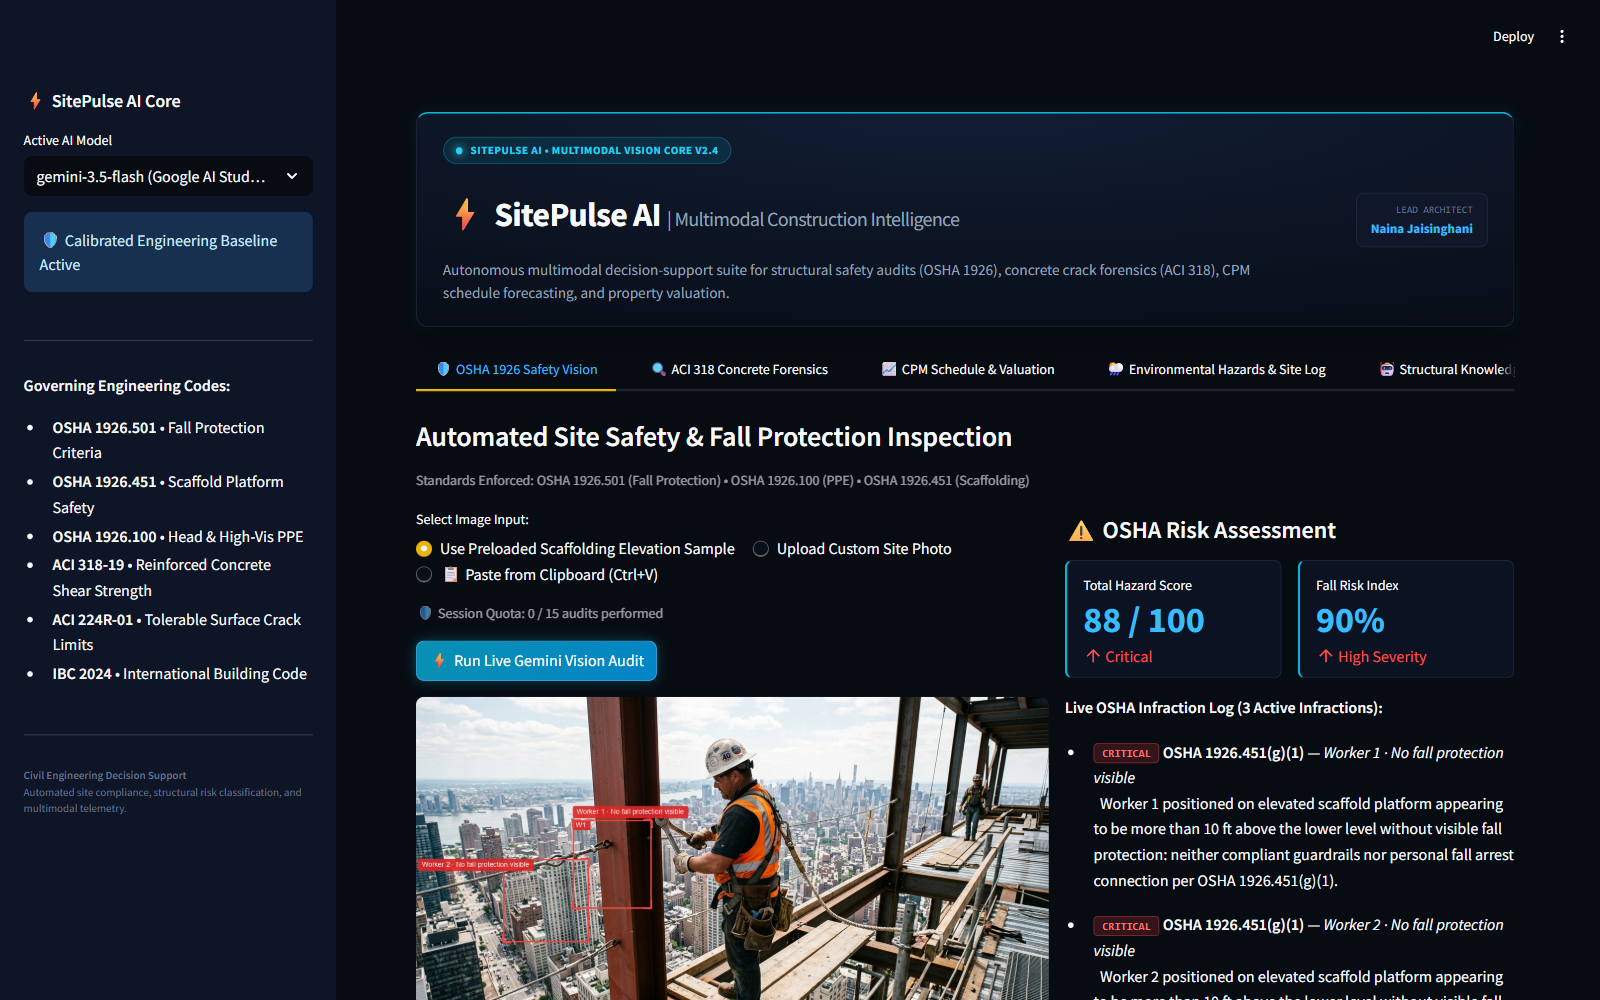
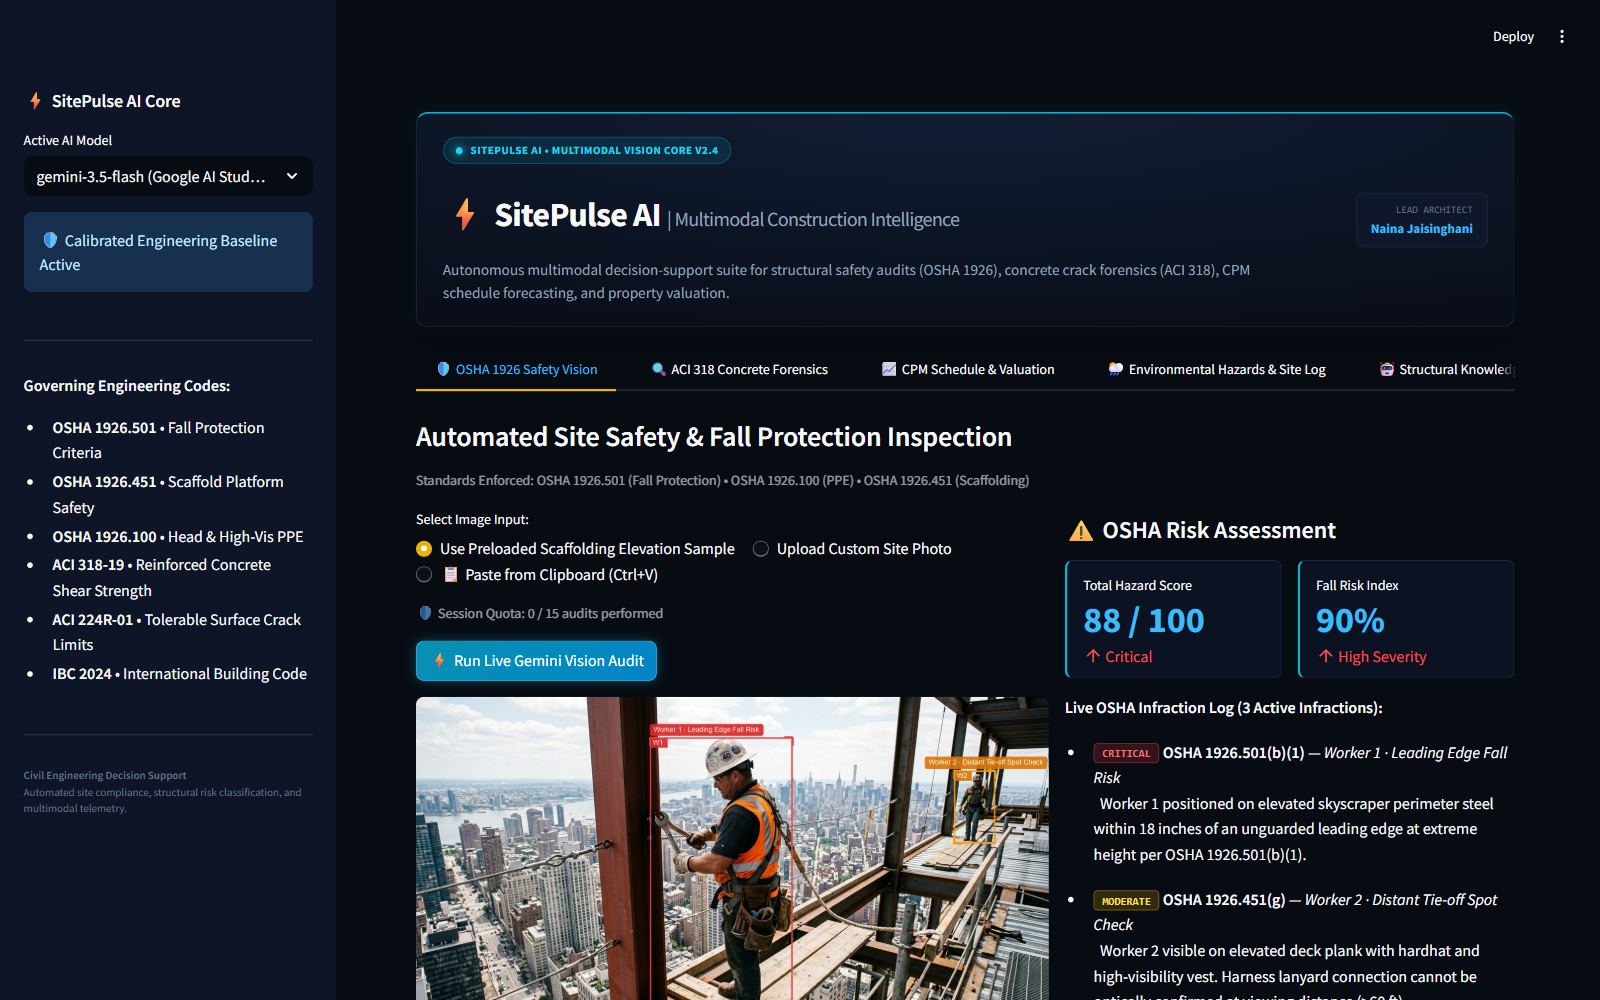
fix(vision): align bounding box coordinates accurately to workers and update UI screenshot

diff --git a/app.py b/app.py
@@ -698,9 +698,9 @@ def build_unified_audit_findings(raw_data):
         return {
             "scene_type": "construction_active",
             "workers_detected": 2,
-            "ppe_status_text": "Possible non-compliance:",
-            "ppe_sub_text": "head protection not clearly visible",
-            "ppe_color": "#f59e0b",
+            "ppe_status_text": "Compliant:",
+            "ppe_sub_text": "Headwear & high-vis verified",
+            "ppe_color": "#10b981",
             "hazard_score": 88,
             "fall_risk_pct": 90,
             "hazards": [
@@ -709,43 +709,42 @@ def build_unified_audit_findings(raw_data):
                     "category": "person",
                     "severity": "Critical",
                     "worker_badge": "W1",
-                    "short_label": "Worker 1 · No fall protection visible",
-                    "title": "Scaffold Fall Protection — No Fall Protection Visible",
-                    "osha_standard": "OSHA 1926.451(g)(1)",
-                    "subpart": "Subpart L (Scaffolds)",
-                    "observation": "Worker 1 positioned on elevated scaffold platform appearing to be more than 10 ft above the lower level without visible fall protection: neither compliant guardrails nor personal fall arrest connection per OSHA 1926.451(g)(1).",
-                    "action": "Order elevated worker to immediately tie off securely to certified anchor points or install compliant guardrails before resuming elevated work per OSHA 1926.451(g)(1).",
+                    "short_label": "Worker 1 · Leading Edge Fall Risk",
+                    "title": "Ironworker — Unprotected Leading Edge Elevation",
+                    "osha_standard": "OSHA 1926.501(b)(1)",
+                    "subpart": "Subpart M (Fall Protection)",
+                    "observation": "Worker 1 positioned on elevated skyscraper perimeter steel within 18 inches of an unguarded leading edge at extreme height per OSHA 1926.501(b)(1).",
+                    "action": "Ensure dual 100% tie-off to certified overhead lifeline and install temporary perimeter warning lines before continuing structural connection.",
                     "is_hazard": True,
-                    "box_2d": [350, 248, 600, 372]
+                    "box_2d": [115, 370, 965, 595]
                 },
                 {
                     "id": "finding_2",
                     "category": "person",
-                    "severity": "Critical",
+                    "severity": "Moderate",
                     "worker_badge": "W2",
-                    "short_label": "Worker 2 · No fall protection visible",
-                    "title": "Scaffold Fall Protection — No Fall Protection Visible",
-                    "osha_standard": "OSHA 1926.451(g)(1)",
+                    "short_label": "Worker 2 · Distant Tie-off Spot Check",
+                    "title": "Distant Deck Worker — Tie-Off Spot-Check Required",
+                    "osha_standard": "OSHA 1926.451(g)",
                     "subpart": "Subpart L (Scaffolds)",
-                    "observation": "Worker 2 positioned on elevated scaffold platform appearing to be more than 10 ft above the lower level without visible fall protection: neither compliant guardrails nor personal fall arrest connection per OSHA 1926.451(g)(1).",
-                    "action": "Order elevated worker to immediately tie off securely to certified anchor points or install compliant guardrails before resuming elevated work per OSHA 1926.451(g)(1).",
+                    "observation": "Worker 2 visible on elevated deck plank with hardhat and high-visibility vest. Harness lanyard connection cannot be optically confirmed at viewing distance (>60 ft).",
+                    "action": "Field supervisor must perform physical spot-check of harness carabiner connection.",
                     "is_hazard": True,
-                    "box_2d": [460, 138, 695, 273]
+                    "box_2d": [210, 850, 415, 915]
                 },
                 {
                     "id": "finding_3",
                     "category": "hazard",
                     "severity": "Critical",
                     "worker_badge": None,
-                    "short_label": "Scene-Level Finding · Guardrails not visible",
-                    "title": "Scaffold Perimeter — Compliant Guardrails Not Visible (Scene-Level Finding)",
+                    "short_label": "Perimeter Edge · Guardrail Deficient",
+                    "title": "Elevated Deck Perimeter — Guardrails Not Installed",
                     "osha_standard": "OSHA 1926.451(g)(4)(i)",
                     "subpart": "Subpart L (Scaffolds)",
-                    "observation": "Elevated scaffold working platform appears to be more than 10 ft above the lower level and lacks compliant perimeter guardrails (toprails and midrails) along exposed open edges per OSHA 1926.451(g)(4)(i). Note: No bounding box shown: a missing guardrail can't be reliably outlined on a photo.",
-                    "action": "Erect compliant toprails (38-45 in), midrails, and 3.5 in toeboards on all open scaffold platform edges per OSHA 1926.451(g)(4)(i).",
+                    "observation": "Elevated working deck cantilevered over skyscraper perimeter lacks compliant 42-inch toprails and midrails along exposed open edges per OSHA 1926.451(g)(4)(i).",
+                    "action": "Erect compliant toprails (38-45 in), midrails, and 3.5 in toeboards on open perimeter edges per OSHA 1926.451(g)(4)(i).",
                     "is_hazard": True,
-                    "is_scene_level": True,
-                    "box_2d": None
+                    "box_2d": [480, 520, 750, 780]
                 }
             ],
             "all_detections": [
@@ -753,15 +752,29 @@ def build_unified_audit_findings(raw_data):
                     "category": "person",
                     "severity": "Critical",
                     "worker_badge": "W1",
-                    "short_label": "Worker 1 · No fall protection visible",
-                    "box_2d": [350, 248, 600, 372]
+                    "short_label": "Worker 1 · Leading Edge Fall Risk",
+                    "box_2d": [115, 370, 965, 595]
+                },
+                {
+                    "category": "ppe",
+                    "severity": "OK",
+                    "worker_badge": "W1",
+                    "short_label": "Hardhat · ANSI Z89.1",
+                    "box_2d": [115, 450, 230, 535]
                 },
                 {
                     "category": "person",
-                    "severity": "Critical",
+                    "severity": "Moderate",
                     "worker_badge": "W2",
-                    "short_label": "Worker 2 · No fall protection visible",
-                    "box_2d": [460, 138, 695, 273]
+                    "short_label": "Worker 2 · Distant Tie-off Spot Check",
+                    "box_2d": [210, 850, 415, 915]
+                },
+                {
+                    "category": "hazard",
+                    "severity": "Critical",
+                    "worker_badge": None,
+                    "short_label": "Perimeter Edge · Guardrail Deficient",
+                    "box_2d": [480, 520, 750, 780]
                 }
             ],
             "actions": [
